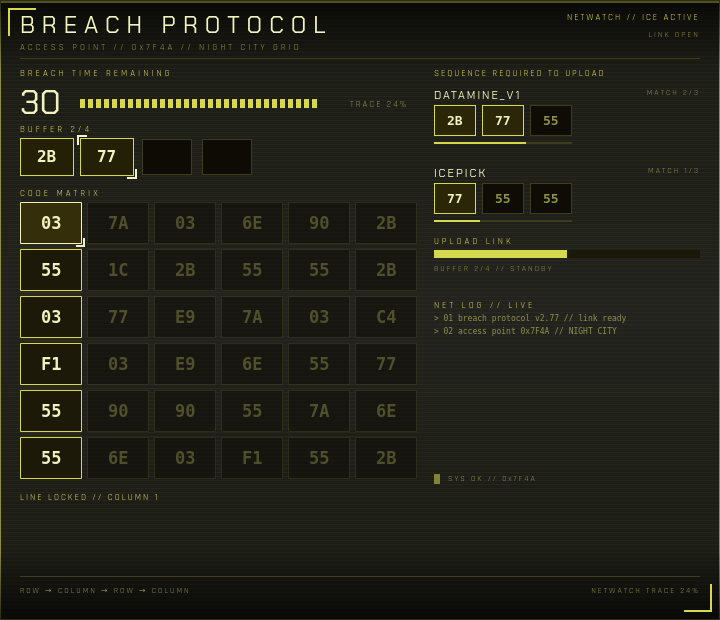
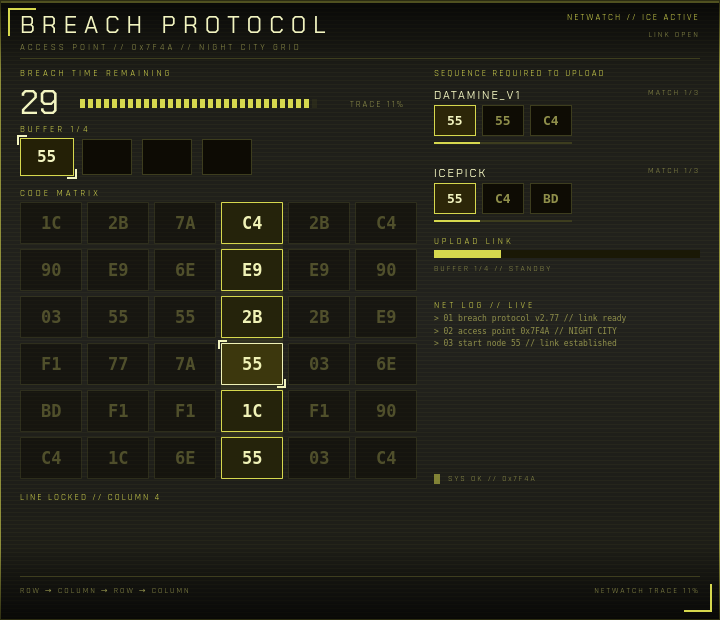
breach widget: add START HACKING button and free start-node selection with solvable daemon generation

diff --git a/plasmoid/com.capricorn.breach/contents/ui/main.qml b/plasmoid/com.capricorn.breach/contents/ui/main.qml
@@ -63,20 +63,7 @@ PlasmoidItem {
         for (var i = 0; i < 36; i++) m.push(randHex())
         matrix = m
 
-        // guaranteed-solvable route: first row -> column -> row -> column
-        var c0 = Math.floor(Math.random() * 6)
-        var r1 = Math.floor(Math.random() * 6)
-        var c2 = Math.floor(Math.random() * 6)
-        var r3 = Math.floor(Math.random() * 6)
-        var p0 = m[c0]
-        var p1 = m[r1 * 6 + c0]
-        var p2 = m[r1 * 6 + c2]
-        var p3 = m[r3 * 6 + c2]
-
-        daemons = [
-            { name: "DATAMINE_V1", seq: [p0, p1, p2] },
-            { name: "ICEPICK",     seq: [p1, p2, p3] }
-        ]
+        daemons = []
         results = []
         buffer = []
         phase = "boot"
@@ -106,25 +93,57 @@ PlasmoidItem {
     }
 
     function isAllowed(index) {
-        if (phase !== "playing" && phase !== "ready") return false
+        if (phase === "choosing") return true
+        if (phase !== "playing") return false
+        if (buffer.length === 0) return true
         var r = Math.floor(index / 6)
         var c = index % 6
         if (pickMode === "row") return r === lastRow
         return c === lastCol
     }
 
-    function startLink() {
+    function beginHack() {
         if (phase !== "ready") return
-        phase = "playing"
+        phase = "choosing"
         blink = false
-        trace = Math.min(99, trace + 1)
-        tick.start()
-        appendLog("link established // timer armed")
+        appendLog("breach armed // choose start node")
         sweepRequested()
     }
 
+    // build guaranteed-solvable daemons from the node the player starts on
+    function armDaemons(index) {
+        var sc = index % 6
+        var r1 = Math.floor(Math.random() * 6)
+        var c2 = Math.floor(Math.random() * 6)
+        var r3 = Math.floor(Math.random() * 6)
+        var p0 = matrix[index]
+        var p1 = matrix[r1 * 6 + sc]
+        var p2 = matrix[r1 * 6 + c2]
+        var p3 = matrix[r3 * 6 + c2]
+        daemons = [
+            { name: "DATAMINE_V1", seq: [p0, p1, p2] },
+            { name: "ICEPICK",     seq: [p1, p2, p3] }
+        ]
+    }
+
     function pick(index) {
-        if (phase === "ready") startLink()
+        if (phase === "choosing") {
+            var sr = Math.floor(index / 6)
+            var sc = index % 6
+            lastPicked = index
+            lastRow = sr
+            lastCol = sc
+            pickMode = "column"
+            buffer = [matrix[index]]
+            armDaemons(index)
+            phase = "playing"
+            trace = Math.min(99, trace + 2)
+            rev++
+            tick.start()
+            appendLog("start node " + matrix[index] + " // link established")
+            sweepRequested()
+            return
+        }
         if (phase !== "playing") return
 
         if (!isAllowed(index)) {
@@ -426,11 +445,14 @@ PlasmoidItem {
             // ── click anywhere ─────────────────────────────────────
             MouseArea {
                 anchors.fill: parent
-                cursorShape: (root.phase === "ready" || root.phase === "playing") ? Qt.PointingHandCursor : Qt.ArrowCursor
+                cursorShape: (root.phase === "choosing" || root.phase === "playing") ? Qt.PointingHandCursor : Qt.ArrowCursor
                 onClicked: {
                     if (root.phase === "ready") {
-                        root.startLink()
-                        clickFlashAnim.restart()
+                        root.toast = "PRESS START HACKING // LINK LOCKED"
+                        toastTimer.restart()
+                    } else if (root.phase === "choosing") {
+                        root.toast = "CHOOSE A START NODE IN THE MATRIX"
+                        toastTimer.restart()
                     } else if (root.phase === "playing") {
                         root.appendLog("manual scan pulse // no anomaly")
                         linkSweep.restart()
@@ -483,7 +505,12 @@ PlasmoidItem {
                 anchors.right: parent.right
                 anchors.rightMargin: 20
                 y: 30
-                text: root.phase === "boot" ? "DECRYPTING..." : "LINK " + (root.phase === "ready" ? "STANDBY" : "OPEN")
+                text: root.phase === "boot" ? "DECRYPTING..."
+                    : root.phase === "ready" ? "LINK STANDBY"
+                    : root.phase === "choosing" ? "AWAITING NODE"
+                    : root.phase === "upload" ? "UPLOADING"
+                    : root.phase === "result" ? "SESSION CLOSED"
+                    : "LINK OPEN"
                 color: root.phase === "boot" ? root.cLine : root.cDim
                 font.family: raj.name
                 font.pixelSize: 8
@@ -708,7 +735,7 @@ PlasmoidItem {
                             MouseArea {
                                 anchors.fill: parent
                                 hoverEnabled: true
-                                cursorShape: (root.phase === "playing" || root.phase === "ready") ? Qt.PointingHandCursor : Qt.ArrowCursor
+                                cursorShape: (root.phase === "playing" || root.phase === "choosing") ? Qt.PointingHandCursor : Qt.ArrowCursor
                                 onEntered: root.hoverIndex = cell.index
                                 onExited: if (root.hoverIndex === cell.index) root.hoverIndex = -1
                                 onClicked: root.pick(cell.index)
@@ -778,11 +805,115 @@ PlasmoidItem {
                 }
             }
 
+            // ── start hacking ──────────────────────────────────────
+            Item {
+                id: startOverlay
+                x: 20
+                y: 202
+                width: 397
+                height: 277
+                z: 20
+                visible: root.phase === "ready"
+
+                Rectangle { anchors.fill: parent; color: "#d2060603" }
+                Rectangle { anchors.fill: parent; color: "transparent"; border.color: root.cFaint; border.width: 1 }
+
+                MouseArea {
+                    anchors.fill: parent
+                    onClicked: {
+                        root.toast = "PRESS START HACKING"
+                        toastTimer.restart()
+                    }
+                }
+
+                Rectangle {
+                    id: startBtn
+                    anchors.centerIn: parent
+                    width: 330
+                    height: 78
+                    color: startMouse.containsMouse ? "#35300c" : "#1e1a07"
+                    border.color: root.cLine
+                    border.width: 2
+                    Behavior on color { ColorAnimation { duration: 120 } }
+
+                    Rectangle {
+                        anchors.fill: parent
+                        anchors.margins: -7
+                        color: "transparent"
+                        border.color: root.cLine
+                        border.width: 1
+                        SequentialAnimation on opacity {
+                            loops: Animation.Infinite
+                            NumberAnimation { to: 0.15; duration: 900 }
+                            NumberAnimation { to: 0.65; duration: 900 }
+                        }
+                    }
+
+                    Row {
+                        anchors.horizontalCenter: parent.horizontalCenter
+                        anchors.top: parent.top
+                        anchors.topMargin: 12
+                        spacing: 12
+
+                        Item {
+                            width: 14
+                            height: 27
+                            Text {
+                                anchors.centerIn: parent
+                                text: "▶"
+                                color: root.cLine
+                                font.family: "DejaVu Sans"
+                                font.pixelSize: 16
+                            }
+                        }
+                        Text {
+                            height: 27
+                            verticalAlignment: Text.AlignVCenter
+                            text: "START HACKING"
+                            color: root.cBright
+                            font.family: chakra.name
+                            font.pixelSize: 20
+                            font.letterSpacing: 4
+                        }
+                    }
+                    Text {
+                        anchors.horizontalCenter: parent.horizontalCenter
+                        anchors.bottom: parent.bottom
+                        anchors.bottomMargin: 9
+                        text: "JACK INTO ACCESS POINT 0x7F4A"
+                        color: root.cDim
+                        font.family: raj.name
+                        font.pixelSize: 8
+                        font.letterSpacing: 2
+                    }
+
+                    MouseArea {
+                        id: startMouse
+                        anchors.fill: parent
+                        hoverEnabled: true
+                        cursorShape: Qt.PointingHandCursor
+                        onClicked: root.beginHack()
+                    }
+                }
+
+                Text {
+                    anchors.horizontalCenter: parent.horizontalCenter
+                    anchors.bottom: parent.bottom
+                    anchors.bottomMargin: 20
+                    text: "ICE LOCKED // BUFFER OFFLINE"
+                    color: root.cDim
+                    font.family: raj.name
+                    font.pixelSize: 8
+                    font.letterSpacing: 3
+                }
+            }
+
             // ── line rule / toast ──────────────────────────────────
             Text {
                 x: 20
                 y: 492
-                text: root.phase === "ready" ? "CLICK ANYWHERE TO JACK IN // START NODE = TOP ROW"
+                text: root.phase === "ready" ? "PRESS START HACKING TO ARM THE BREACH"
+                    : root.phase === "choosing" ? "CHOOSE START NODE // ANY CELL IN THE MATRIX"
                     : root.phase === "playing" ? "LINE LOCKED // " + (root.pickMode === "row"
                         ? "ROW " + (root.lastRow + 1) : "COLUMN " + (root.lastCol + 1))
                     : root.phase === "upload" ? "FLUSHING BUFFER // UPLOADING"
@@ -812,6 +943,20 @@ PlasmoidItem {
                 font.family: raj.name
                 font.pixelSize: 9
                 font.letterSpacing: 2
+            }
+            Text {
+                x: 434
+                y: 88
+                width: 266
+                height: 40
+                visible: root.daemons.length === 0
+                text: root.phase === "choosing" ? "AWAITING START NODE // SELECT ANY CELL"
+                    : "NO ACTIVE SEQUENCE // PRESS START HACKING"
+                color: root.cDim
+                font.family: raj.name
+                font.pixelSize: 8
+                font.letterSpacing: 2
+                wrapMode: Text.WordWrap
             }
             Column {
                 x: 434
